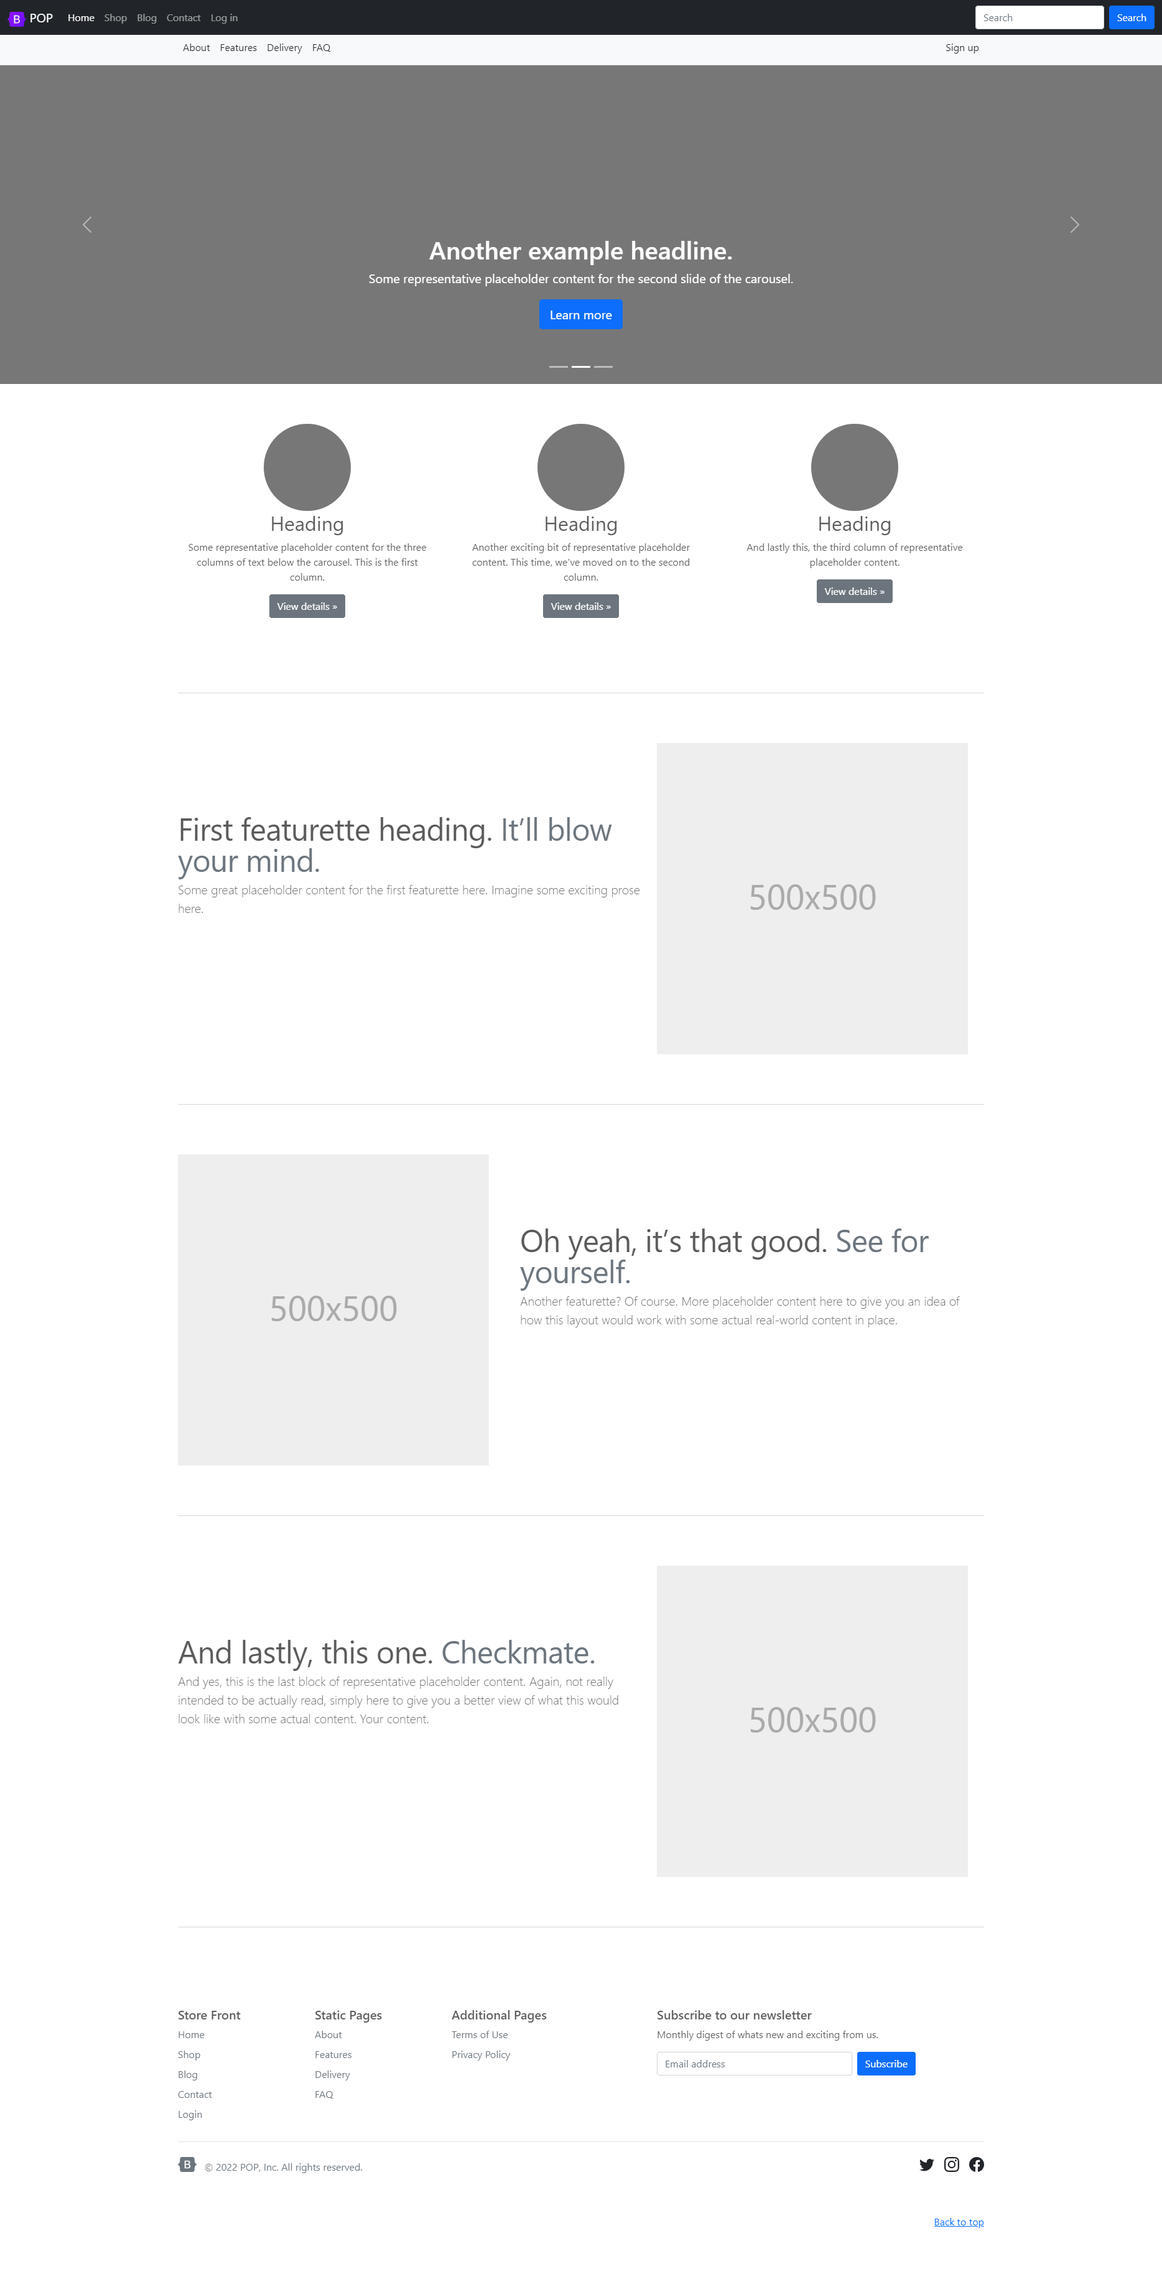
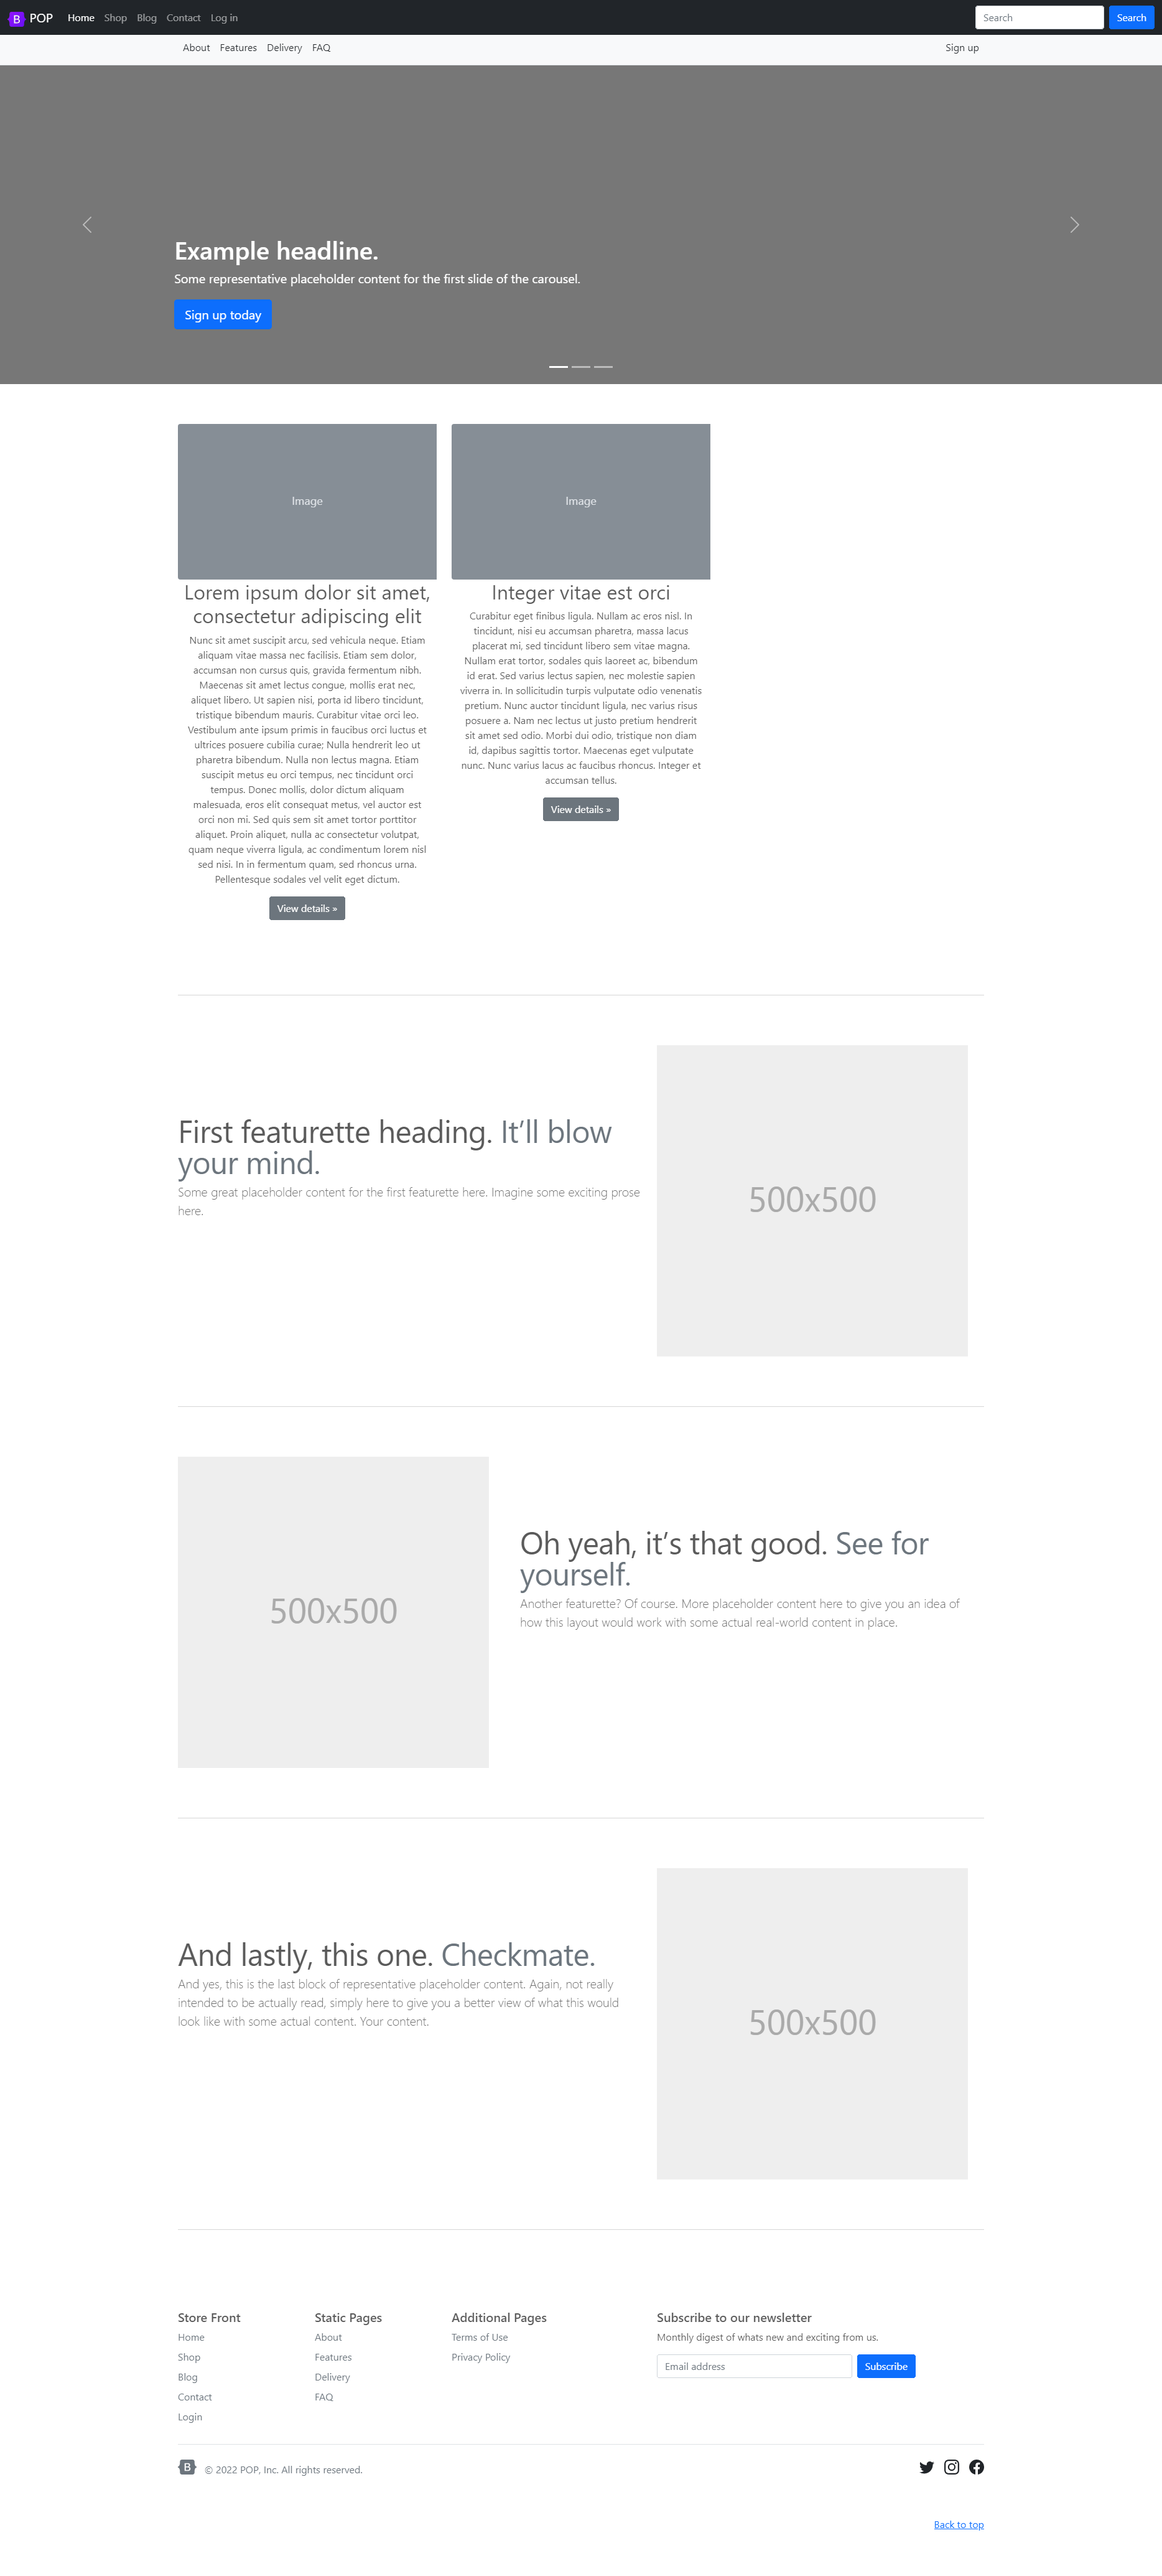
Dedicaded blog posts in Home

diff --git a/README.md b/README.md
@@ -81,3 +81,5 @@ http://localhost:5000
 ![Dashboard](screenshots/dashboard.png "Dashboard")
 
 ![Posts](screenshots/posts.png "Posts")
+
+![New post](screenshots/new_post.png "New post")
